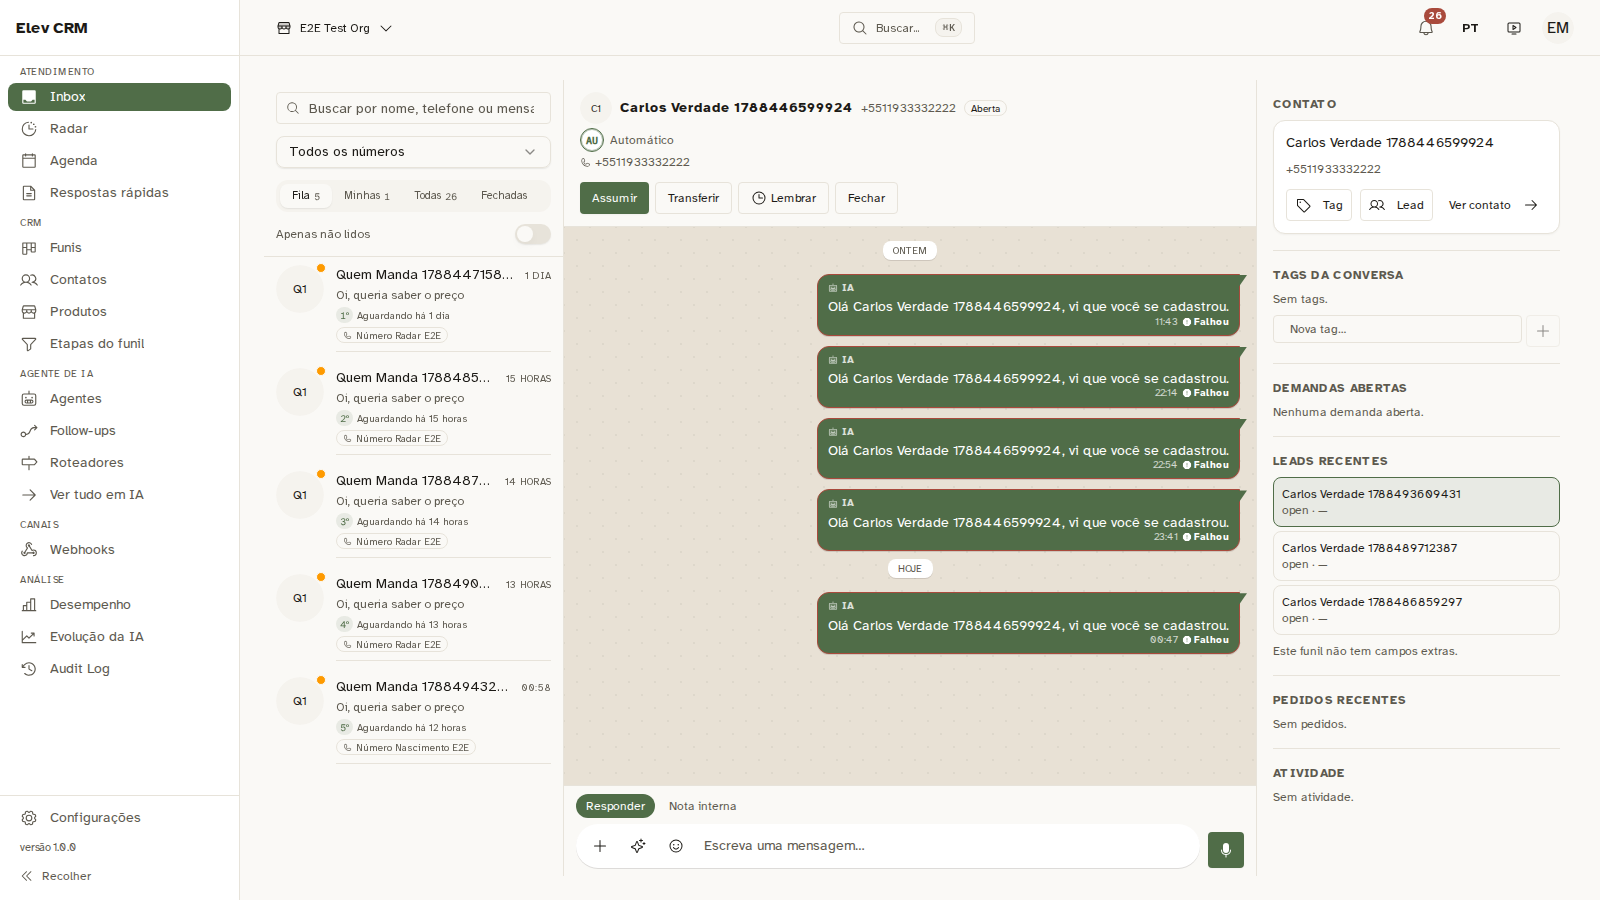
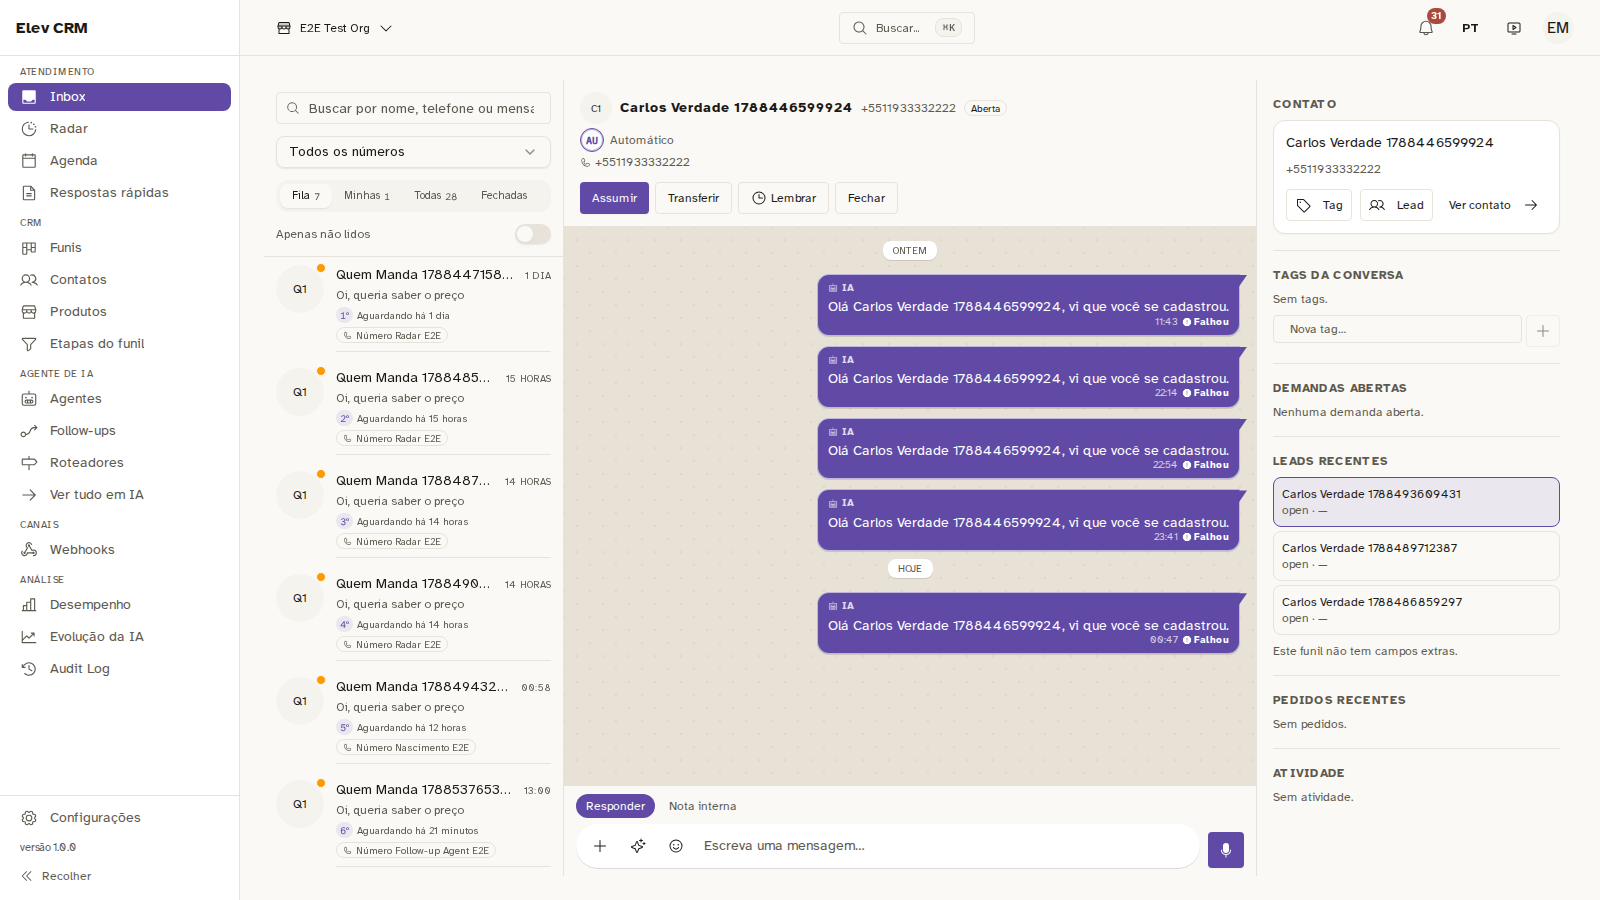
fix(inbox): a moldura de falha tambem some sob a cor da marca
Eu tinha consertado o TEXTO "Falhou" e esquecido a BORDA. Mesma classe de
defeito, mesmo motivo: `border-destructive` e vermelho-tijolo (#a94a3c), e sobre
a bolha de saida — que e a cor da marca, trocada em runtime — ele deixa de ler
como erro.

MEDIDO, e a medicao e o ponto: com a marca roxa aplicada (#604aa6), a borda
computada e `1px solid rgb(169, 74, 60)`. Na tela aquilo nao parece alarme,
parece artefato de renderizacao. EU MESMO li como "lavanda" antes de medir — e
se quem escreveu o codigo le errado, o atendente tambem le.

Do lado de saida a moldura passa a herdar o texto da bolha, que por construcao
contrasta com ela. Quem diz "falhou" ali e o selo com icone, nao a cor da borda.
Na bolha de ENTRADA, que e clara, o vermelho continua — ali ele funciona.

A EVIDENCIA FOI REFEITA COM A MARCA DE VERDADE. As capturas anteriores sairam
verdes, e a pergunta do dono ("por que esta verde?") achou o motivo: o servidor
de e2e nao recebe `APP_ACCENT_HEX`, e sem cor configurada o produto usa a dele
(`layout.tsx`: "nenhuma cor configurada: o produto fica com a cor dele"). Em
producao a variavel chega — `docker-compose.prod.yml` usa `env_file: .env` e o
`install.sh` grava a cor la. O README da evidencia registra isso.

De quebra, a recaptura confirmou o que a regua de contraste faz sozinha: com
`#7a5cd6` pedido, ela aplica `#604aa6` e registra "rampa andou +1 grau(s) ate o
700 para todo papel caber no piso".
[…]

diff --git a/components/inbox/MessageBubble.tsx b/components/inbox/MessageBubble.tsx
@@ -148,7 +148,18 @@ export function MessageBubble({
                 primeiraDoGrupo &&
                   cn("inbox-bolha-rabinho", isOutbound ? "rounded-tr-none" : "rounded-tl-none"),
               ),
-          isFailed && "border border-destructive",
+          // A MOLDURA DA FALHA SEGUE A MESMA REGRA DO TEXTO "Falhou".
+          //
+          // `border-destructive` é vermelho-tijolo (#a94a3c). Sobre a bolha de
+          // entrada, que é clara, ele lê como erro. Sobre a de SAÍDA, que é a
+          // cor da marca trocada em runtime, ele deixa de ler: medido com a
+          // marca roxa (#604aa6 aplicado), o resultado é um contorno que parece
+          // artefato, não alarme — e eu mesmo li como lavanda antes de medir.
+          //
+          // Do lado de saída a moldura herda o texto da bolha, que por
+          // construção contrasta com ela. Quem diz "falhou" ali é o selo com
+          // ícone, não a cor da borda.
+          isFailed && (isOutbound ? "border border-[var(--chat-out-fg)]/60" : "border border-destructive"),
         )}
       >
         {/*

diff --git a/evidence/inbox-cara-de-whatsapp/README.md b/evidence/inbox-cara-de-whatsapp/README.md
@@ -1,7 +1,15 @@
 # Inbox com cara de WhatsApp — o que mudou, na tela
 
 Capturas feitas em 2026-09-04, 1600×900, contra o build de produção com o banco
-de e2e. O objetivo do trabalho está em
+de e2e e **com a marca da instalação aplicada** (`APP_ACCENT_HEX=#7a5cd6`).
+
+> As primeiras capturas deste trabalho saíram VERDES, e a pergunta do dono —
+> "por que está verde?" — achou um detalhe que vale registrar: o servidor de
+> e2e não recebe `APP_ACCENT_HEX`, e sem cor configurada o produto usa a dele.
+> Em produção a variável chega, porque `docker-compose.prod.yml` usa
+> `env_file: .env` e o `install.sh` grava a cor lá. Medido subindo o mesmo
+> servidor com a variável exportada: o bloco `#marca-instalacao` aparece e
+> `--color-accent-500` vira `#7a5cd6`. O objetivo do trabalho está em
 [`docs/superpowers/specs/2026-09-04-inbox-cara-de-whatsapp-design.md`](../../docs/superpowers/specs/2026-09-04-inbox-cara-de-whatsapp-design.md).
 
 ## Conversa de entrada — o chão, o agrupamento e a lista
